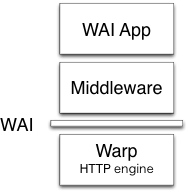
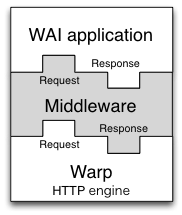
redrawing pics.

diff --git a/warp.html b/warp.html
@@ -87,7 +87,7 @@
 <h3 id="avoiding-locks">Avoiding locks</h3>
 <p>Unnecessary locks are evil for programming. Our code sometime uses unnecessary locks imperceptibly because runtime systems or libraries uses locks deep inside. To implement high-performance server, we need to identify locks and avoid locks if possible. It is worth pointing out that locks will become much more critical under the parallel IO manager. We will talk how to identify and avoid locks in Section XXX and Section XXX.</p>
 <h2 id="http-request-parser">HTTP request parser</h2>
-<p>Besides the many issues involved with efficient concurrency and I/O in a multicore environment, Warp also needs to be certain that each core is performing its tasks efficiently. In that regard, the most relevant component is the HTTP request processing. The purpose is to take a stream of bytes coming from the incoming socket, parse out the request line and individual headers, and leave the request body to be processed by the application. It must take this information and produce a data structure which the application (whether a Yesod application, Mighttpd, or something else) will use to form its response.</p>
+<p>Besides the many issues involved with efficient concurrency and I/O in a multicore environment, Warp also needs to be certain that each core is performing its tasks efficiently. In that regard, the most relevant component is the HTTP request processing. The purpose is to take a stream of bytes coming from the incoming socket, parse out the request line and individual headers, and leave the request body to be processed by the application. It must take this information and produce a data structure which the application (whether a Yesod application, mighty, or something else) will use to form its response.</p>
 <p>The request body itself presents some interesting challenges. Warp provides full support for pipelining and chunked request bodies. As a result, Warp must &quot;dechunk&quot; any chunked request bodies before passing them to the application. With pipelining, multiple requests can be transferred on a single connection. Therefore, Warp must ensure that the application does not consume too many bytes, as that would remove vital information from the next request. It must also be sure to discard any data remaining from the request body; otherwise, the remainder will be parsed as the beginning of the next request, causing either an invalid request or a misunderstood request.</p>
 <p>As an example, consider the following theoretical request from a client:</p>
 <pre><code>POST /some/path HTTP/1.1
@@ -103,15 +103,18 @@ helloworld
 GET / HTTP/1.1</code></pre>
 <p>The HTTP parser must extract the <code>/some/path</code> pathname and the <code>Content-Type</code> header and pass these to the application. When the application begins reading the request body, it must strip off the chunk headers (e.g., <code>0008</code> and <code>000a</code>) and instead provide the actual content, i.e. <code>message=helloworld</code>. It must also ensure that no more bytes are consumed after the chunk terminator (<code>0000</code>) so as not to interfere with the next pipelined request.</p>
 <h3 id="writing-the-parser">Writing the Parser</h3>
-<p>Haskell is known for its powerful parsing capabilities. It has traditional parser generators as well as combinator libraries, such as Parsec and Attoparsec. Parsec and Attoparsec's textual module work in a fully Unicode-aware manner. However, HTTP data is guaranteed to be ASCII, so Unicode awareness is an overhead we need not incur.</p>
+<p>Haskell is known for its powerful parsing capabilities. It has traditional parser generators as well as combinator libraries, such as Parsec and Attoparsec. Parsec and Attoparsec's textual module work in a fully Unicode-aware manner. However, HTTP headers are guaranteed to be ASCII, so Unicode awareness is an overhead we need not incur.</p>
 <p>Attoparsec also provides a binary interface for parsing, which would let us bypass the Unicode overhead. But as efficient as Attoparsec is, it still introduces an overhead relative to a hand-rolled parser. So for Warp, we have not used any parser libraries. Instead, we perform all parsing manually.</p>
 <p>This gives rise to another question: how do we represent the actual binary data? The standard Haskell representation is a <code>ByteString</code>, an efficient packed data structure. A <code>ByteString</code> is essentially three pieces of data: a pointer to some piece of memory, the offset from the beginning of that memory to the data in question, and the size of our data.</p>
 <p>The offset information may seem redundant. We could instead insist that our memory pointer point to the beginning of our data. However, by including the offset, we enable data sharing. Multiple <code>ByteString</code>s can all point to the same chunk of memory and use different parts of it (a.k.a., splicing). There is no concern of data corruption, since <code>ByteString</code>s- like most Haskell data- are immutable. When the final pointer to a piece of memory is no longer used, then the memory buffer is deallocated.</p>
 <p>This combination is perfect for our use case. When a client sends a request over a socket, Warp will read the data in relatively large chunks (currently 4096 bytes). In most cases, this is large enough to encompass the entire request line and all request headers. Warp will then use its hand-rolled parser to break this large chunk into lines. This can be done quite efficiently since:</p>
 <ol style="list-style-type: decimal">
-<li><p>We need only scan the memory buffer for newline characters. The bytestring library provides such helper functions, which are implemented with lower-level C functions like <code>memchr</code>.</p></li>
-<li><p>There is no need to allocate extra memory buffers to hold the data. We just take splices from the original buffer. It's worth stressing this point: we actually end up with a situation which is more efficient than idiomatic C. In C, strings are null-terminated, so splicing requires allocating a new memory buffer, copying the data from the old buffer, and appending the null character.</p></li>
+<li><p>We need only scan the memory buffer for newline characters. The bytestring library provides such helper functions, which are implemented with lower-level C functions like <code>memchr</code>. (It's actually a little more complicated than that due to multiline headers, but the same basic approach still applies.)</p></li>
+<li><p>There is no need to allocate extra memory buffers to hold the data. We just take splices from the original buffer. See figure XXX for a demonstration of splicing individual components from a larger chunk of data. It's worth stressing this point: we actually end up with a situation which is more efficient than idiomatic C. In C, strings are null-terminated, so splicing requires allocating a new memory buffer, copying the data from the old buffer, and appending the null character.</p></li>
 </ol>
+<div class="figure">
+<img src="bytestring.png" alt="Splicing ByteStrings" /><p class="caption">Splicing ByteStrings</p>
+</div>
 <p>Once the buffer has been broken into lines, we perform a similar maneuver to turn the header lines into key/value pairs. For the request line, we parse the requested path fairly deeply. Suppose we have a request for:</p>
 <pre><code>GET /buenos/d%C3%ADas HTTP/1.1</code></pre>
 <p>We need to perform the following steps:</p>
@@ -130,7 +133,7 @@ GET / HTTP/1.1</code></pre>
 </ol>
 <p>The final piece of parsing we perform is dechunking. In many ways, dechunking is a simpler form of parsing. We parse a single Hex number, and then read the stated number of bytes. Those bytes are passed on verbatim- without any buffer copying- to the application.</p>
 <h3 id="conduit">Conduit</h3>
-<p>This article has mentioned a few times the concept of passing the request body to the application. It has also hinted at the issue of the application passing a response back to the server, and the server receiving data from and sending data to the socket. A final related point not yet discussed is <strong>middleware</strong>, which are components sitting between the server and application that somehow modify the request and/or response. For our purposes, a prime example would be a gzip middleware, which automatically compresses response bodies.</p>
+<p>This article has mentioned a few times the concept of passing the request body to the application. It has also hinted at the issue of the application passing a response back to the server, and the server receiving data from and sending data to the socket. A final related point not yet discussed is <strong>middleware</strong>, which are components sitting between the server and application that somehow modify the request and/or response. The definition of a middleware is <code>type Middleware = Application -&gt; Application</code>. The intuition behind this is that a middleware will take some &quot;internal&quot; application, preprocess the request, pass it to the internal application to get a response, and then postprocess the response. For our purposes, a prime example would be a gzip middleware, which automatically compresses response bodies.</p>
 <p>Historically, a common approach in the Haskell world for representing such streams of data has been lazy I/O. Lazy I/O represents a stream of values as a single, pure data structure. As more data is requested from this structure, I/O actions will be performed to grab the data from its source. Lazy I/O provides a huge level of composability. For example, I can write a function to compress a lazy <code>ByteString</code>, and then apply it to an existing response body easily. However, there are two major downsides to lazy I/O:</p>
 <ol style="list-style-type: decimal">
 <li><p>Non-deterministic resource finalization. If a reference to such a lazy structure is maintained, or if the structure isn't quickly evaluated to its completion, the finalization may be delayed for a long time (e.g., until a garbage collection sweep can ensure the data is no longer necessary). In many cases, this non-determinism is acceptable. In the case of a web server, file descriptors are a scarce resource, and therefore we need to ensure that they are finalized as soon as possible.</p></li>
@@ -138,7 +141,10 @@ GET / HTTP/1.1</code></pre>
 </ol>
 <p>We could drop down to a lower level and deal directly with file descriptors instead. However, this would hurt composability greatly. How would we write a general-purpose GZIP middleware? It also leaves open the question of buffering. Inherent in the request parsing described above, we have the need to store extra bytes for later steps. For example, if we grab a chunk of data which includes both request headers and some of the request body, the request body must be buffered and then provided to the application.</p>
 <p>To address this, the WAI protocol- and therefore Warp- is built on top of the conduit package. This package provides an abstraction for streams of data. It keeps much of the compsability of lazy I/O, provides a buffering solution, and guarantees deterministic resource handling. Exceptions are also kept where they belong, in the parts of your code which deal with I/O.</p>
-<p>Warp represents the incoming stream of bytes from the client as a <code>Source</code>, and writes data to be sent to the client to a <code>Sink</code>. The <code>Application</code> is provided a <code>Source</code> with the request body, and provides a response as a <code>Source</code> as well. Middlewares are able to intercept the <code>Source</code>s for the request and response bodies and apply transformations to them. The composability of the conduit package makes this an easy and efficient operation.</p>
+<p>Warp represents the incoming stream of bytes from the client as a <code>Source</code>, and writes data to be sent to the client to a <code>Sink</code>. The <code>Application</code> is provided a <code>Source</code> with the request body, and provides a response as a <code>Source</code> as well. Middlewares are able to intercept the <code>Source</code>s for the request and response bodies and apply transformations to them. Figure XXX demonstrates how a middleware fits between Warp and an application. The composability of the conduit package makes this an easy and efficient operation.</p>
+<div class="figure">
+<img src="middleware.png" alt="Middlewares" /><p class="caption">Middlewares</p>
+</div>
 <p>Conduit itself is a large topic, and therefore will not be covered in more depth. Suffice it to say for now that conduit's usage in Warp is a contributing factor to its high performance.</p>
 <h3 id="slowloris-protection">Slowloris protection</h3>
 <p>We have one final concern: the <a href="http://en.wikipedia.org/wiki/Slowloris">slowloris attack</a>. This is a form of a Denial of Service (DOS) attack wherein each client sends very small amounts of information. By doing so, the client is able to maintain a higher number of connections on the same hardware/bandwidth. Since the web server has a constant overhead for each open connection regardless of bytes being transferred, this can be an effective attack. Therefore, Warp must detect when a connection is not sending enough data over the network and kill it.</p>

diff --git a/warp.md b/warp.md
@@ -402,7 +402,7 @@ This can be done quite efficiently since:
    copying the data from the old buffer,
    and appending the null character.
 
-![Splicing ByteStrings](bytestring-splicing.png)
+![Splicing ByteStrings](bytestring.png)
 
 Once the buffer has been broken into lines,
 we perform a similar maneuver to turn the header lines into key/value pairs.
@@ -504,7 +504,7 @@ and apply transformations to them.
 Figure XXX demonstrates how a middleware fits between Warp and an application.
 The composability of the conduit package makes this an easy and efficient operation.
 
-![Middlewares](middleware-michael.png)
+![Middlewares](middleware.png)
 
 Conduit itself is a large topic, and therefore will not be covered in more depth.
 Suffice it to say for now that conduit's usage in Warp is a contributing factor to its high performance.
